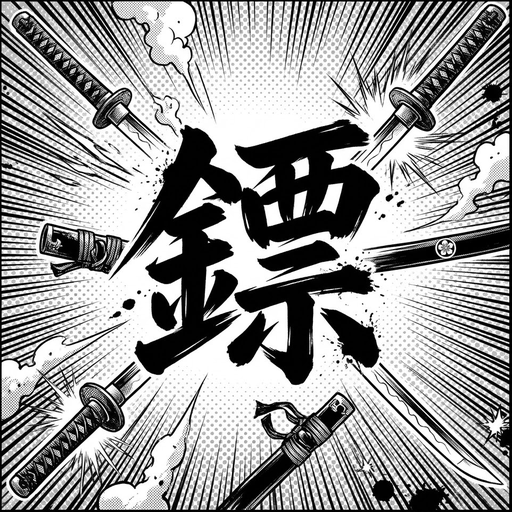
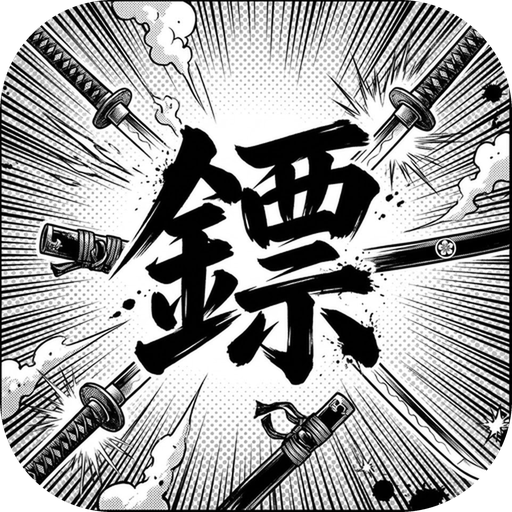
1

diff --git a/index.html b/index.html
@@ -3,12 +3,12 @@
 <head>
 <meta charset="utf-8">
 <meta name="viewport" content="width=device-width,initial-scale=1">
-<title>ASC 鏢局・喵武士</title>
+<title>Asc鏢局</title>
 <meta name="description" content="ASC 鏢局：喵武士 NFT 鑄造、解盲、VIP 換裝、轉蛋、配件市場，與 ASC 點數金庫的即時幣值、買入和兌換。">
-<meta property="og:title" content="ASC 鏢局・喵武士">
+<meta property="og:title" content="Asc鏢局">
 <meta property="og:description" content="一個錢包，行走兩個江湖：喵武士 NFT 與 ASC 點數金庫。">
 <meta name="theme-color" content="#070d1f">
-<link rel="icon" type="image/png" sizes="64x64" href="./assets/favicon.png">
+<link rel="icon" type="image/png" sizes="64x64" href="./assets/favicon.png?v=20261102b">
 <link rel="apple-touch-icon" href="./assets/apple-touch-icon.png">
 <link rel="preconnect" href="https://fonts.googleapis.com">
 <link rel="preconnect" href="https://fonts.gstatic.com" crossorigin>

diff --git a/bind/index.html b/bind/index.html
@@ -9,7 +9,7 @@
 <meta property="og:title" content="江湖鏢局金庫">
 <meta property="og:description" content="科技江湖・鏈上鏢局：持有越久，換得越多。">
 <meta property="og:image" content="../assets/og.jpg">
-<link rel="icon" type="image/png" sizes="64x64" href="../assets/favicon.png">
+<link rel="icon" type="image/png" sizes="64x64" href="../assets/favicon.png?v=20261102b">
 <link rel="apple-touch-icon" href="../assets/apple-touch-icon.png">
 <link rel="preconnect" href="https://fonts.googleapis.com">
 <link rel="preconnect" href="https://fonts.gstatic.com" crossorigin>

diff --git a/privacy/index.html b/privacy/index.html
@@ -6,7 +6,7 @@
 <title>隱私權政策｜ASC 鏢局</title>
 <meta name="description" content="江湖鏢局 Discord 機器人與 ASC 鏢局網站的隱私權政策">
 <meta name="theme-color" content="#070d1f">
-<link rel="icon" type="image/png" sizes="64x64" href="../assets/favicon.png">
+<link rel="icon" type="image/png" sizes="64x64" href="../assets/favicon.png?v=20261102b">
 <link rel="apple-touch-icon" href="../assets/apple-touch-icon.png">
 <link rel="preconnect" href="https://fonts.googleapis.com">
 <link rel="preconnect" href="https://fonts.gstatic.com" crossorigin>

diff --git a/terms/index.html b/terms/index.html
@@ -6,7 +6,7 @@
 <title>服務條款｜ASC 鏢局</title>
 <meta name="description" content="江湖鏢局 Discord 機器人與 ASC 鏢局網站的服務條款">
 <meta name="theme-color" content="#070d1f">
-<link rel="icon" type="image/png" sizes="64x64" href="../assets/favicon.png">
+<link rel="icon" type="image/png" sizes="64x64" href="../assets/favicon.png?v=20261102b">
 <link rel="apple-touch-icon" href="../assets/apple-touch-icon.png">
 <link rel="preconnect" href="https://fonts.googleapis.com">
 <link rel="preconnect" href="https://fonts.gstatic.com" crossorigin>

diff --git a/AGENTS.md b/AGENTS.md
@@ -44,3 +44,4 @@
 - 頂部導覽列縮小：logo、連結錢包、狀態 chip、語言切換、三分頁、子分頁的高度與字級都變小；按鈕底色改半透明。
 - 網站 logo 換成「鏢」字刀劍漫畫圖：`assets/logo.png`（192×192，裁中間）取代左上角的「ASC」文字方塊（首頁、綁定頁、shared/core.js）；`favicon.png`、`apple-touch-icon.png`、`icon-512.png` 也換成同一張；移除 `favicon.svg`（舊的 ASC 文字圖示，移到 `_to_delete/`）。
 - 導覽列（`app/style.css` 最後一段）：上排 品牌｜三分頁 `#sw3`（在 `.toprow .mid`）｜錢包（`.status` 狀態 chip 移進 `.wallet`，小字排在按鈕下方）｜語言切換（最右上）；子選單改成貼齊的底線分頁（NFT 紅線、Token 藍線），首頁沒有子選單時整列隱藏。手機只在金庫未驗證／已標記時顯示 chip。桌機約 116px（原 195）。`index.html`、`privacy`、`terms` 的 `app/*.css|js` 加 `?v=20261102` 避免瀏覽器快取舊檔，之後改 CSS/JS 記得換版本號。
+- 網站圖示改圓角：`favicon.png`（64）、`icon-512.png` 由原圖加 22% 圓角、四角透明（RGBA）；`apple-touch-icon.png` 維持方形（iOS 會自己裁圓角，透明角在 iOS 會變黑）。favicon 連結加 `?v=20261102b`。首頁 `<title>`／`og:title` 改為「Asc鏢局」。
